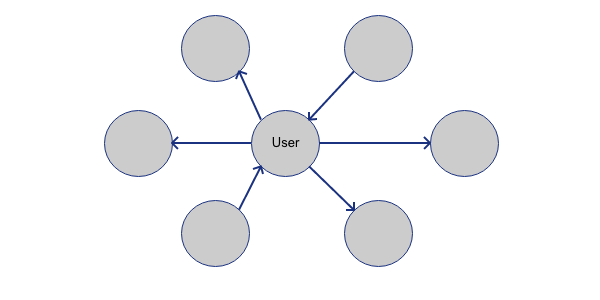
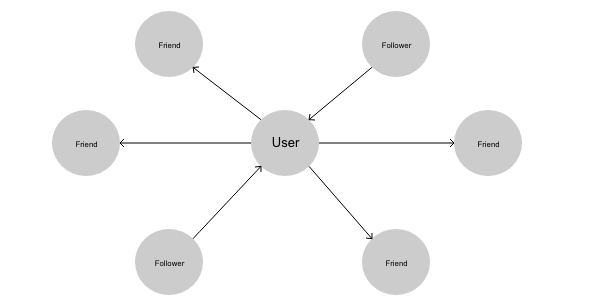
add diagrams

diff --git a/report/section/method.tex b/report/section/method.tex
@@ -42,6 +42,12 @@ The Twitter account that you find in the third step will represent
 your network root (root node). From this root, you will branch off to
 find Transnational Entrepreneurs.
 
+\begin{figure}[H]
+  \centering
+  \includegraphics[width=1.0\textwidth]{root_node.png}
+  \caption{The root node and Transnational Entrepreneur candidates.}
+\end{figure}
+
 \section{Root Network Extraction}
 After identifying a Twitter User as your root node, the program will
 extract a group of followers from your root node. These are your root
@@ -54,7 +60,7 @@ will perform a set of filters operations on them.
 
 \section{Filter Level 0}
 The first filter involved is named Filter level 0. Filter level 0 is
-responsible for filtering the Root Node's followers to see whether
+responsible for filtering the root node's followers to see whether
 they are of interest. For the purposes of this research, we check two
 things here.
 
@@ -64,20 +70,20 @@ things here.
 \end{itemize}
 
 The way we determine whether the User is from Berlin is by relying on
-their time zone settings. We found that many people set their
-language, or their city to whatever they would like, but the timezone,
-often automatically set by the computer is a good indicator of a
-user's actual locale. Regardless, going with any one of the attributes
-is not a completley valid way to ensure that a given user says where
-they actually are, all information is subject to what the user wishes
-to input.
+their time zone settings. We found that many users set their language,
+or their city to whatever they would like, but the timezone, often
+automatically set by the computer, is a good indicator of a user's
+actual locale. Regardless, going with any one of the attributes is not
+a completley valid way to ensure that a given user says where they
+actually are, all information is subject to what the user wishes to
+input.
 
 The second criteria is a little bit more difficult to discern (is the
 user human). It is not always possible to tell apart a human from a
 robot or organization. In order to keep things as simple as possible,
 we performed some basic checks that look for a valid ratio of
 friends:followers, a limited amount of content repetition/spam, and
-automatically passed them if they were twitter verified. This is not a
+automatically passed them if they were Twitter verified. This is not a
 foolproof way of filtering users as robots or not, but it is
 computationally inexpensive and allowed us to move on to our next
 stage of filtering. Further research could focus more on this aspect.
@@ -112,7 +118,16 @@ After extracting up to 200 friends and 200 followers from every given
 Transnational Entreprenuer candidate, we gathered the latest 200
 tweets from every single user in the egocentric network. If the user
 had tweeted less than 200 total tweets, we gathered all of their
-tweets. By having a record of every single tweet, and every single
+tweets.
+
+\begin{figure}[H]
+  \centering
+  \includegraphics[width=1.0\textwidth]{tweets.png}
+  \caption{A network graph of a Transnational Entrepreneur and thier Tweets.}
+\end{figure}
+
+
+By having a record of every single tweet, and every single
 timestamp from every tweet, we can trace the diffusion of an idea
 throughout a network. If we know that one of a Transantional
 Entrepreneur's friends tweeted about something, and then subsequently

diff --git a/report/section/research_question.tex b/report/section/research_question.tex
@@ -83,18 +83,21 @@ defined within a statistical context. This means that 32\% of a user's
 network should fall within one distribution, another 32\% within
 another. Following this same reasoning, 95\% of a given Transnational
 Entrepreneur's network should fall within four discrete countries.
-\begin{figure}[H]
-  \centering
-  \includegraphics[width=1.0\textwidth]{normal_distribution.png}
-  \caption{Normalized distribution (not drawn to scale).}
-\end{figure}
 
 In order to measure the deviation from a normal distribution, we will
-measure the Kurtosis. Kurtosis is a measure of the ``tailedness'' of a
+measure the kurtosis. Kurtosis is a measure of the ``tailedness'' of a
 probability distribution. Kurtosis can be characterized in three ways:
-mesokurtic, leptokurtic, and platykurtic. A most normal distribution
-is mesokurtic. A leptokurtic distribution is one that is very peaky,
-it has a tall center, and platykurtic distribution is one that is very
-wide, and evenly distributed. Our hypothesis is, therefore, there
-exists a relationship between the delta of a mesokurtic distribution
-and the frequency of transnational diffusion in a given network.
+mesokurtic, leptokurtic, and platykurtic.
+
+\begin{figure}[H]
+  \centering
+  \includegraphics[width=1.0\textwidth]{kurtosis.png}
+  \caption{Platykurtic, Mesokurtic, and Leptokurtic distribution (not drawn to scale).}
+\end{figure}
+
+A most normal distribution is mesokurtic. A leptokurtic distribution
+is one that is very peaky, it has a tall center, and platykurtic
+distribution is one that is very wide, and evenly distributed. Our
+hypothesis is, therefore, there exists a relationship between the
+delta of a mesokurtic distribution and the frequency of transnational
+diffusion in a given network.
